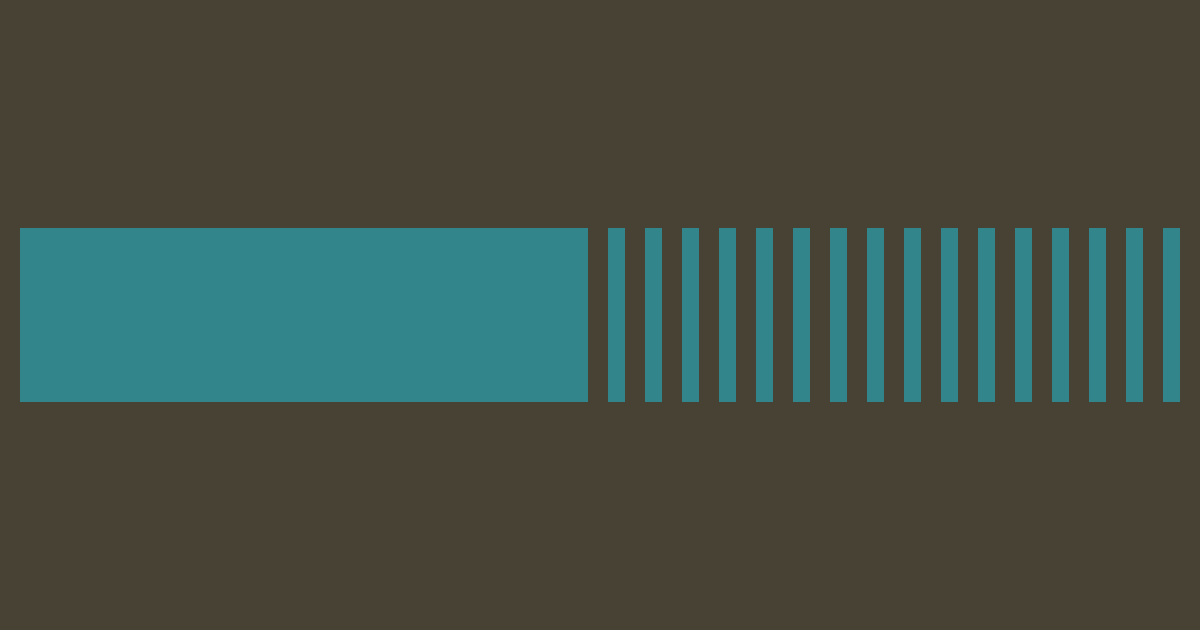
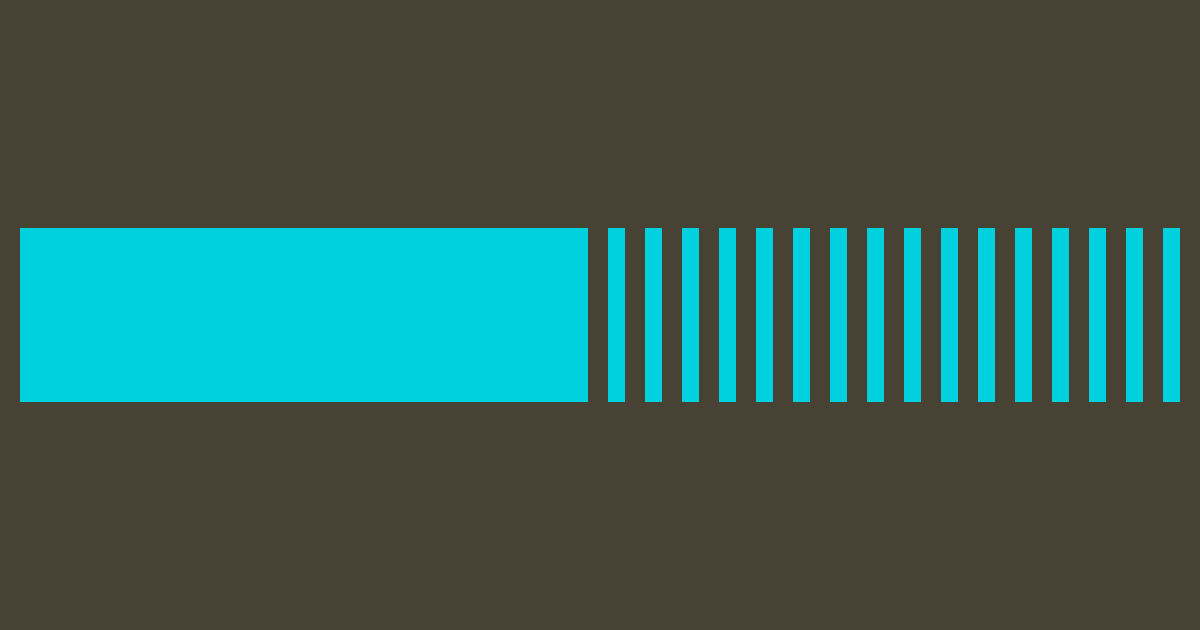
DANH-0: update resume

Changed region(s): [[0.0, 0.3619, 0.9867, 0.6635]]

diff --git a/static/terminal.css b/static/terminal.css
@@ -1,5 +1,5 @@
 :root {
   --background: #474233;
   --foreground: #ffffff;
-  --accent: #32858b;
+  --accent: #01d0df;
 }